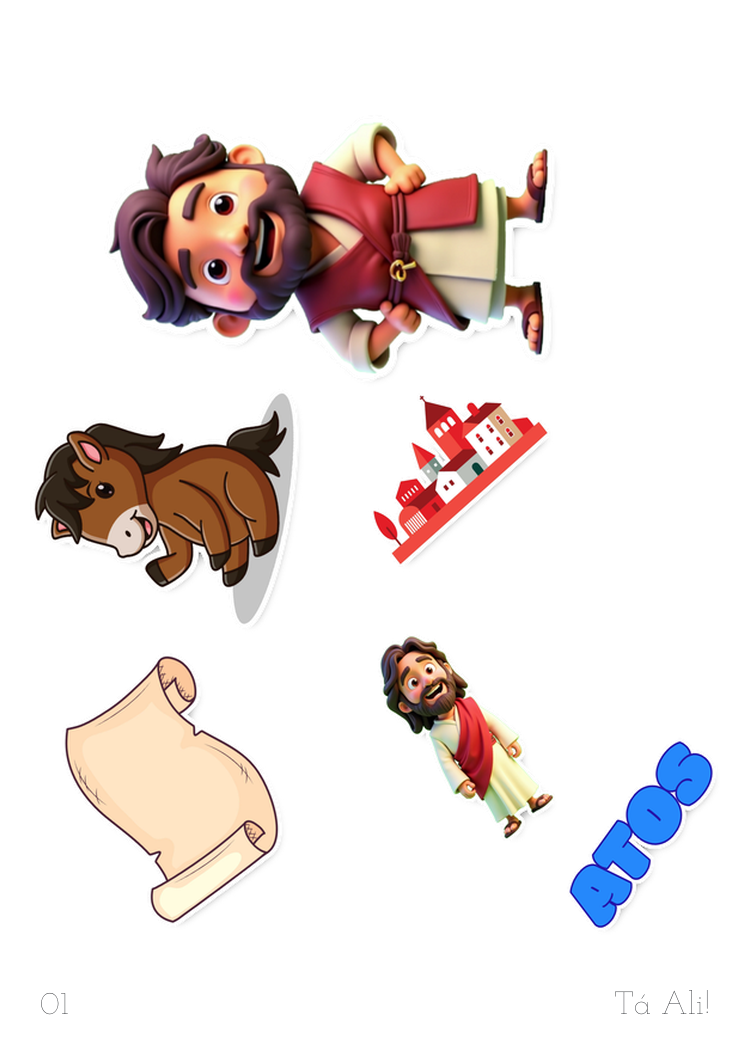
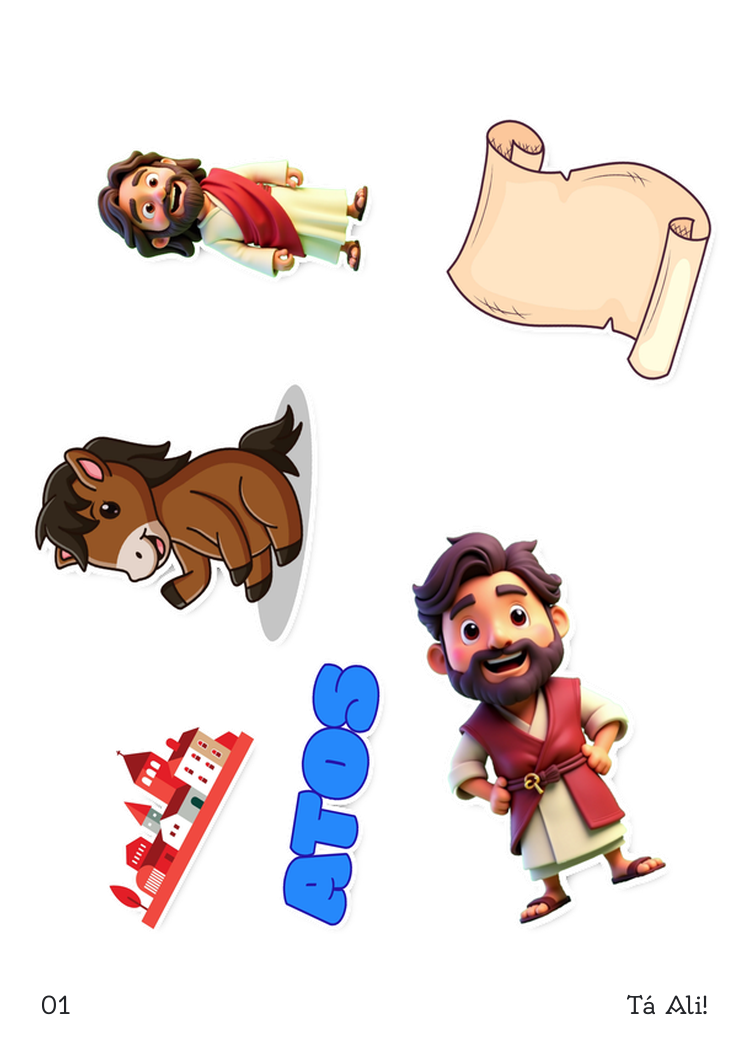
feat: adiciona novas cartas - 17 a 21

diff --git a/dobble_generator.py b/dobble_generator.py
@@ -57,4 +57,4 @@ def print_cartas(lista):
             imagem_carta = gerar_imagem_carta(figuras, carta)
             imagem_carta.save(f"out/carta_{carta["id"]:02d}.png")
 
-print_cartas([15,16])
+print_cartas([17,21])
